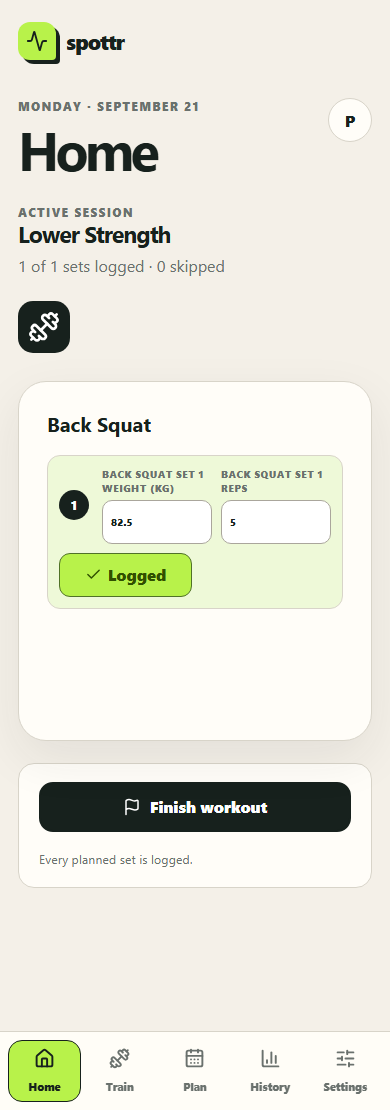
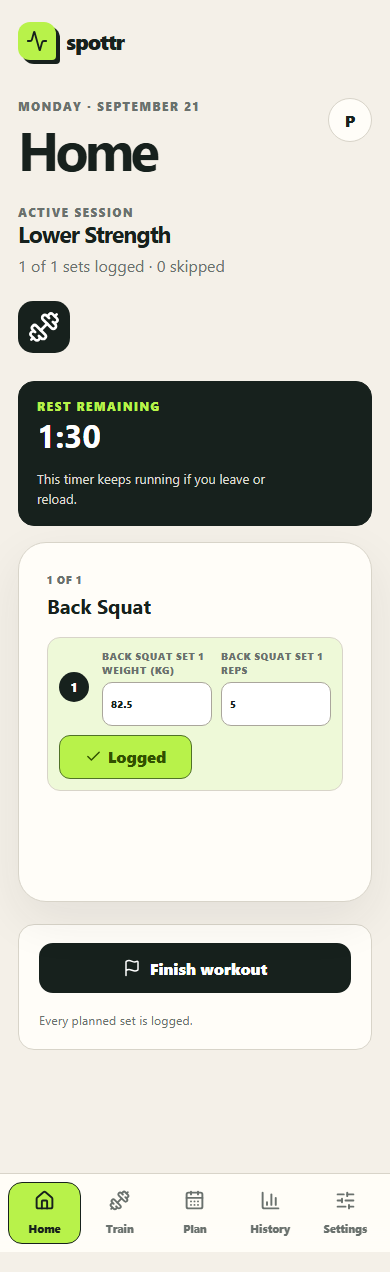
[verified] persist rest timer across session reloads

diff --git a/src/ActiveSession.tsx b/src/ActiveSession.tsx
@@ -4,6 +4,15 @@ import { ActionButton, Panel } from './primitives'
 import type { CompletedWorkoutSession, SessionService, WorkoutSession } from './sessions'
 import { displayWeight, storedWeight, type AppSettings } from './settings'
 
+function remainingRestSeconds(endsAt?: string) {
+  return endsAt ? Math.max(0, Math.ceil((Date.parse(endsAt) - Date.now()) / 1000)) : 0
+}
+
+function formatTimer(seconds: number) {
+  const minutes = Math.floor(seconds / 60)
+  return `${minutes}:${String(seconds % 60).padStart(2, '0')}`
+}
+
 export function ActiveSession({
   initialSession,
   sessionService,
@@ -33,6 +42,9 @@ export function ActiveSession({
   const confirmFinishButton = useRef<HTMLButtonElement>(null)
   const [error, setError] = useState('')
   const [feedback, setFeedback] = useState<{ message: string; sequence: number } | null>(null)
+  const [restSecondsRemaining, setRestSecondsRemaining] = useState(
+    () => remainingRestSeconds(initialSession.restTimer?.endsAt),
+  )
   const allSets = session.exercises.flatMap((exercise) => exercise.sets)
   const completedSets = allSets.filter(({ completedAt }) => completedAt).length
   const skippedSets = allSets.filter(({ skippedAt }) => skippedAt).length
@@ -41,6 +53,14 @@ export function ActiveSession({
   useEffect(() => {
     if (isConfirmingFinish) keepTrainingButton.current?.focus()
   }, [isConfirmingFinish])
+
+  useEffect(() => {
+    const updateTimer = () => setRestSecondsRemaining(remainingRestSeconds(session.restTimer?.endsAt))
+    updateTimer()
+    if (!session.restTimer?.endsAt) return
+    const interval = window.setInterval(updateTimer, 250)
+    return () => window.clearInterval(interval)
+  }, [session.restTimer?.endsAt])
 
   function closeFinishDialog() {
     if (isFinishing) return
@@ -76,7 +96,7 @@ export function ActiveSession({
       const updated = await sessionService.logSet(exerciseId, setId, {
         weight: storedWeight(Number(draft.weight), settings.weightUnit),
         reps: Number(draft.reps),
-      })
+      }, settings.restTimerEnabled ? settings.restSeconds : undefined)
       setSession(updated)
       onSessionChange(updated)
       const loggedSet = updated.exercises.flatMap(({ sets }) => sets).find(({ id }) => id === setId)
@@ -164,6 +184,15 @@ export function ActiveSession({
       </div>
       {error && <p role="alert" className="form-message error-copy">{error}</p>}
       {feedback && <p key={feedback.sequence} role="status" className={`session-feedback${settings.prCelebrations && feedback.message.includes('PR') ? ' pr-celebration' : ''}`}>{feedback.message}</p>}
+      {restSecondsRemaining > 0 && (
+        <div className="rest-timer">
+          <div>
+            <p className="eyebrow">Rest remaining</p>
+            <strong role="timer" aria-label="Rest timer">{formatTimer(restSecondsRemaining)}</strong>
+          </div>
+          <p>This timer keeps running if you leave or reload.</p>
+        </div>
+      )}
       <div className="session-exercises">
         {session.exercises.map((exercise, exerciseIndex) => (
           <Panel key={exercise.id} className="session-exercise" aria-labelledby={`session-exercise-${exercise.id}`}>

diff --git a/src/App.test.tsx b/src/App.test.tsx
@@ -720,9 +720,10 @@ describe('active workout session journey', () => {
     await exerciseService.addMedia(exercise.id, new File(['1234'], 'setup.png', { type: 'image/png' }))
     const workoutService = createWorkoutService(createMemoryWorkoutRepository())
     await workoutService.create({ name: 'Strength', gymId: gym.id, exercises: [{ exerciseId: exercise.id, sets: [{ kind: 'working', weight: 20, reps: 5 }] }] })
+    const sessionService = createSessionService(createMemorySessionRepository(), workoutService, exerciseService)
     const settingsRepository = createMemorySettingsRepository()
     const settingsService = createSettingsService(settingsRepository)
-    const firstRender = render(<App gymService={gymService} exerciseService={exerciseService} workoutService={workoutService} settingsService={settingsService} />)
+    const firstRender = render(<App gymService={gymService} exerciseService={exerciseService} workoutService={workoutService} sessionService={sessionService} settingsService={settingsService} />)
 
     await user.click(screen.getByRole('tab', { name: /settings/i }))
     expect(await screen.findByText(/4 b used across 1 file/i)).toBeInTheDocument()
@@ -734,7 +735,7 @@ describe('active workout session journey', () => {
     expect(await screen.findByRole('status')).toHaveTextContent(/settings saved/i)
 
     firstRender.unmount()
-    render(<App gymService={gymService} exerciseService={exerciseService} workoutService={workoutService} settingsService={settingsService} />)
+    const restoredRender = render(<App gymService={gymService} exerciseService={exerciseService} workoutService={workoutService} sessionService={sessionService} settingsService={settingsService} />)
     await user.click(screen.getByRole('tab', { name: /settings/i }))
     expect(await screen.findByLabelText(/weight unit/i)).toHaveValue('lb')
     expect(screen.getByLabelText(/pr celebrations/i)).not.toBeChecked()
@@ -745,7 +746,13 @@ describe('active workout session journey', () => {
     expect(screen.getByLabelText(/squat set 1 weight \(lb\)/i)).toHaveValue(44.1)
     await user.click(screen.getByRole('button', { name: /log squat set 1/i }))
     expect(await screen.findByText(/rest for 120 seconds/i)).toBeInTheDocument()
+    expect(screen.getByRole('timer', { name: /rest timer/i })).toHaveTextContent('2:00')
     expect(screen.queryByText(/new .* pr/i)).not.toBeInTheDocument()
+
+    restoredRender.unmount()
+    render(<App gymService={gymService} exerciseService={exerciseService} workoutService={workoutService} sessionService={sessionService} settingsService={settingsService} />)
+    await user.click(await screen.findByRole('button', { name: /resume strength/i }))
+    expect(screen.getByRole('timer', { name: /rest timer/i })).toBeInTheDocument()
   })
 
   it('finishes a partial workout, shows its summary, and restores set-level history after reload', async () => {

diff --git a/src/sessions.ts b/src/sessions.ts
@@ -31,6 +31,10 @@ export type WorkoutSession = {
   gymId: string
   gymName: string
   exercises: SessionExercise[]
+  restTimer?: {
+    startedAt: string
+    endsAt: string
+  }
   startedAt: string
   updatedAt: string
 }
@@ -71,6 +75,7 @@ type SessionServiceOptions = {
 function cloneSession<T extends WorkoutSession>(session: T): T {
   const clone = {
     ...session,
+    restTimer: session.restTimer ? { ...session.restTimer } : undefined,
     exercises: session.exercises.map((exercise) => ({
       ...exercise,
       sets: exercise.sets.map((set) => ({
@@ -245,10 +250,18 @@ export function createSessionService(
       })
     },
 
-    async logSet(sessionExerciseId: string, setId: string, actual: { weight: number; reps: number }) {
+    async logSet(
+      sessionExerciseId: string,
+      setId: string,
+      actual: { weight: number; reps: number },
+      restSeconds?: number,
+    ) {
       return mutate(() => withSessionLogLock(async () => {
         if (!Number.isFinite(actual.weight) || actual.weight < 0) throw new Error('Set weight must be zero or greater')
         if (!Number.isInteger(actual.reps) || actual.reps <= 0) throw new Error('Set reps must be a positive whole number')
+        if (restSeconds !== undefined && (!Number.isInteger(restSeconds) || restSeconds <= 0)) {
+          throw new Error('Rest duration must be a positive whole number of seconds')
+        }
         const active = await repository.getActive()
         const activeExercise = active?.exercises.find(({ id }) => id === sessionExerciseId)
         const activeSet = activeExercise?.sets.find(({ id }) => id === setId)
@@ -278,6 +291,12 @@ export function createSessionService(
           const updated: WorkoutSession = {
             ...current,
             updatedAt: timestamp,
+            ...(restSeconds === undefined ? {} : {
+              restTimer: {
+                startedAt: timestamp,
+                endsAt: new Date(Date.parse(timestamp) + restSeconds * 1000).toISOString(),
+              },
+            }),
             exercises: current.exercises.map((exercise) => exercise.id === sessionExerciseId
               ? {
                   ...exercise,

diff --git a/src/styles.css b/src/styles.css
@@ -393,6 +393,11 @@ p { color: var(--muted); line-height: 1.55; }
 .session-set-actions { display: grid; gap: 6px; }
 .session-set-list .set-skip-button { border-color: var(--line); color: var(--ink); background: #fff; }
 .session-feedback { margin-bottom: 16px; padding: 12px 14px; border: 1px solid #507227; border-radius: 13px; color: #315000; background: #eef9d8; font-weight: 850; }
+.rest-timer { display: flex; align-items: center; justify-content: space-between; gap: 18px; margin-bottom: 16px; padding: 16px 18px; border: 1px solid var(--ink); border-radius: 16px; color: #fff; background: var(--ink); }
+.rest-timer p { margin: 0; }
+.rest-timer .eyebrow { color: var(--signal); }
+.rest-timer strong { display: block; margin-top: 3px; font-size: 2rem; line-height: 1; font-variant-numeric: tabular-nums; }
+.rest-timer > p { max-width: 260px; color: #dedbd2; font-size: .82rem; }
 .pr-celebration { animation: record-pop 420ms ease-out; }
 @keyframes record-pop { from { transform: scale(.98); opacity: .35; } to { transform: scale(1); opacity: 1; } }
 .finish-session { display: flex; align-items: center; justify-content: space-between; gap: 18px; margin-top: 22px; padding: 18px 20px; border: 1px solid var(--line); border-radius: 16px; background: var(--surface); }
@@ -492,7 +497,7 @@ p { color: var(--muted); line-height: 1.55; }
   .session-exercise-controls { grid-template-columns: repeat(2, 44px); }
   .session-set-list li { grid-template-columns: 34px minmax(0, 1fr) minmax(0, 1fr); }
   .session-set-actions { grid-column: 1 / -1; grid-template-columns: repeat(2, minmax(0, 1fr)); }
-  .finish-session, .history-card-heading { align-items: stretch; flex-direction: column; }
+  .rest-timer, .finish-session, .history-card-heading { align-items: stretch; flex-direction: column; }
   .finish-session .action-button, .history-card-heading button { width: 100%; }
   .summary-metrics, .summary-reserved { grid-template-columns: repeat(2, minmax(0, 1fr)); }
   .summary-actions { align-items: stretch; flex-direction: column; }

diff --git a/src/sessions.test.ts b/src/sessions.test.ts
@@ -30,6 +30,30 @@ async function createTrainingContext() {
 }
 
 describe('active workout session service', () => {
+  it('restTimer_logSet_reload_restoresTheRunningTimer', async () => {
+    const context = await createTrainingContext()
+    const repository = createMemorySessionRepository()
+    const service = createSessionService(repository, context.workoutService, context.exerciseService, {
+      now: () => '2026-09-28T13:15:00.000Z',
+    })
+    const started = await service.start(context.template.id, context.gym.name)
+
+    await service.logSet(
+      started.exercises[0].id,
+      started.exercises[0].sets[0].id,
+      { weight: 20, reps: 10 },
+      90,
+    )
+
+    const reloadedService = createSessionService(repository, context.workoutService, context.exerciseService)
+    await expect(reloadedService.getActive()).resolves.toMatchObject({
+      restTimer: {
+        startedAt: '2026-09-28T13:15:00.000Z',
+        endsAt: '2026-09-28T13:16:30.000Z',
+      },
+    })
+  })
+
   it('detects weight and set-volume PRs from completed history while excluding skipped sets', async () => {
     const context = await createTrainingContext()
     const repository = createMemorySessionRepository()

diff --git a/e2e/active-session.spec.ts b/e2e/active-session.spec.ts
@@ -38,11 +38,13 @@ test('starts, fast-logs, reloads, and resumes an independent session snapshot at
   await weight.fill('82.5')
   await page.getByRole('button', { name: 'Log Back Squat set 1' }).click()
   await expect(page.getByText('1 of 1 sets logged')).toBeVisible()
+  await expect(page.getByRole('timer', { name: 'Rest timer' })).toContainText(/^1:\d{2}$/)
 
   await page.reload()
   await page.getByRole('button', { name: 'Resume Lower Strength' }).click()
   await expect(page.getByLabel('Back Squat set 1 weight')).toHaveValue('82.5')
   await expect(page.getByRole('button', { name: 'Logged Back Squat set 1' })).toBeDisabled()
+  await expect(page.getByRole('timer', { name: 'Rest timer' })).toBeVisible()
 
   const interactionState = await page.evaluate(() => ({
     scrollWidth: document.documentElement.scrollWidth,
